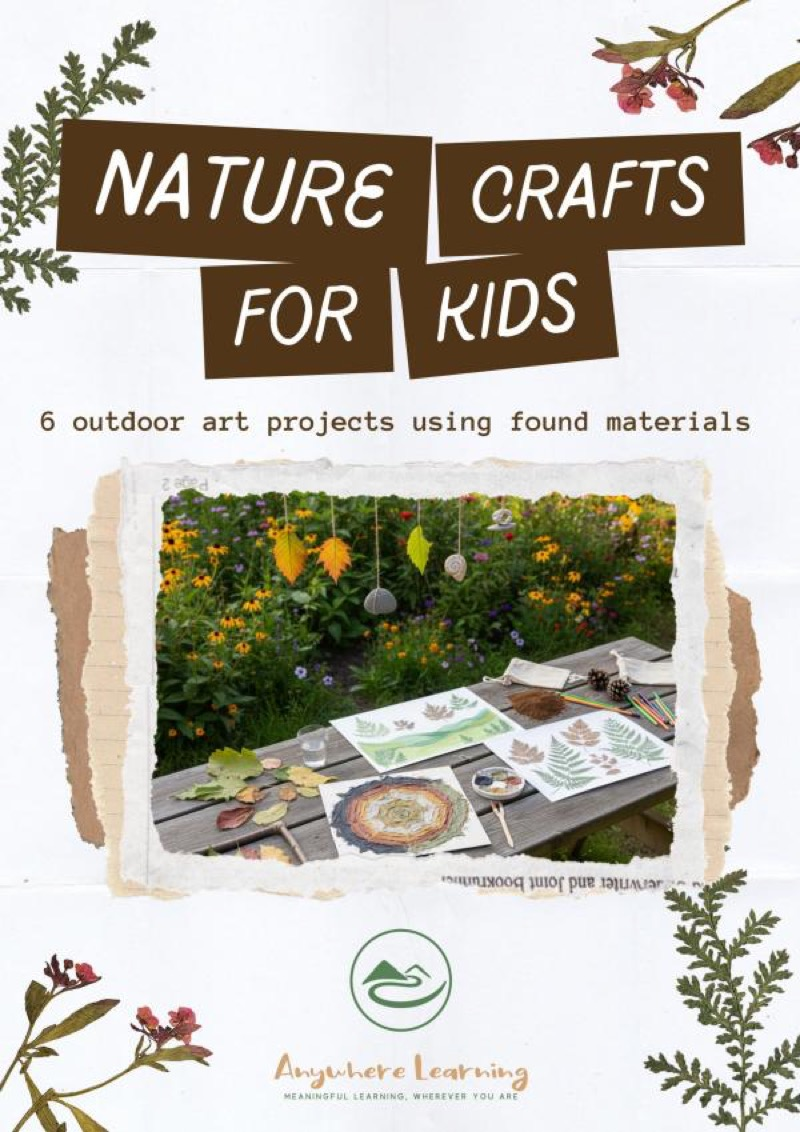
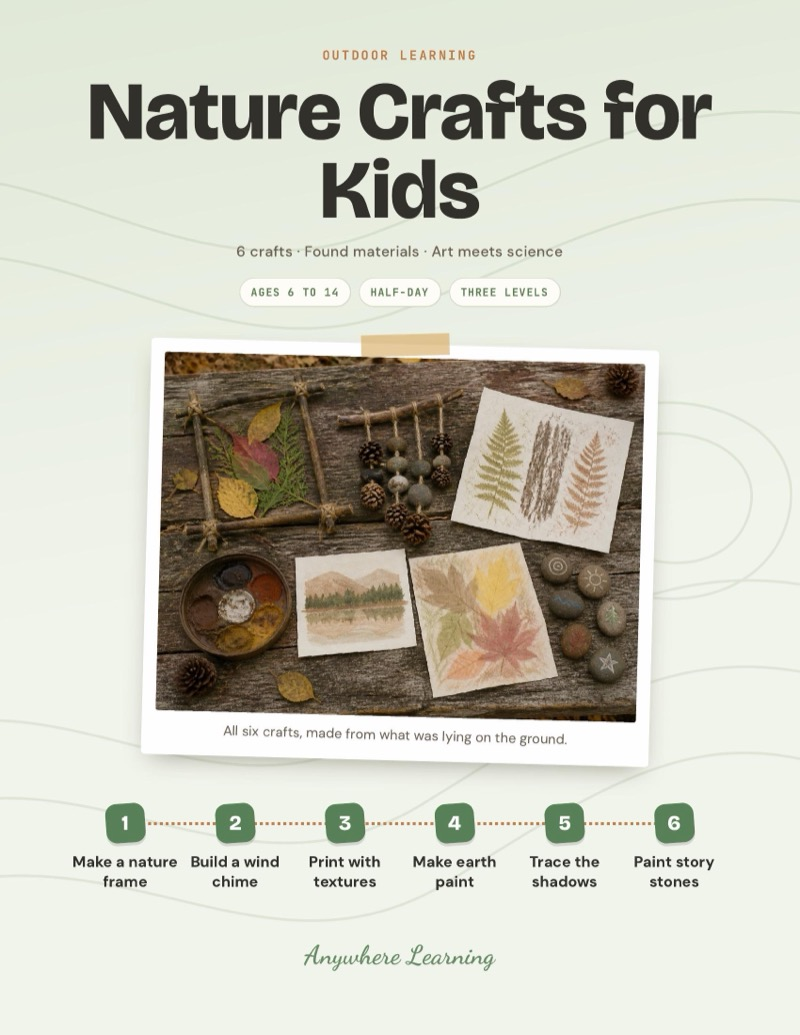
Publish Nature Crafts (6 crafts, watercolour illustrations) + listing copy

diff --git a/lib/fallback-products.ts b/lib/fallback-products.ts
@@ -317,7 +317,7 @@ export const fallbackProducts: FallbackProduct[] = [
     name: "Nature Crafts for Kids",
     slug: "nature-crafts",
     description:
-      "Hands-on nature craft projects using materials found outdoors. Leaf pressing, stick weaving, flower pounding, bark rubbings, and more. Each project connects creativity with nature observation. Kids collect materials, then create something beautiful with what they find.",
+      "Six real crafts made from what's lying on the ground: a nature frame, a wind chime tuned by ear, prints stamped with ferns and bark, paint mixed from soil, drawings traced from shadows, and story stones that become a game. Each craft hides a bit of science or storytelling, and kids learn to test and change their choices like real makers.",
     shortDescription:
       "Nature crafts for kids ages 6-14: hands-on outdoor craft projects using materials found in your backyard or on a trail.",
     priceCents: 799,
@@ -325,7 +325,7 @@ export const fallbackProducts: FallbackProduct[] = [
     stripePriceId: "price_1TLrphAkIBECpwGmHzBJOSW0",
     blobUrl: "",
     imageUrl: "/products/nature-crafts.jpg",
-    previewFile: "Preview Nature crafts for kids.pdf",
+    previewFile: "Preview Outdoor Learning - Nature crafts for kids v3.pdf",
     category: "outdoor-learning",
     isBundle: false,
     bundleProductIds: null,

diff --git a/lib/activity-blob-urls.ts b/lib/activity-blob-urls.ts
@@ -77,7 +77,7 @@ export const ACTIVITY_BLOB_URLS: Record<string, string> = {
   "mini-movie": "https://xkj3tzlgu6ylgllk.public.blob.vercel-storage.com/Creativity%20%26%20Maker%20Create%20a%20Mini%20Movie%2C%20Stop-Motion%20or%20Radio%20Drama%20v2.pdf",
   "my-review-column": "https://xkj3tzlgu6ylgllk.public.blob.vercel-storage.com/Communication%20%26%20Writing%20-%20My%20Review%20Column%20v4.pdf",
   "nature-choice-boards": "https://xkj3tzlgu6ylgllk.public.blob.vercel-storage.com/Outdoor%20Learning%20-%20Nature%20Choice%20Boards%20v5.pdf",
-  "nature-crafts": "https://xkj3tzlgu6ylgllk.public.blob.vercel-storage.com/Outdoor%20Learning%20-%20Nature%20crafts%20for%20kids%20v2.pdf",
+  "nature-crafts": "https://xkj3tzlgu6ylgllk.public.blob.vercel-storage.com/Outdoor%20Learning%20-%20Nature%20crafts%20for%20kids%20v3.pdf",
   "nature-data-tracker": "https://xkj3tzlgu6ylgllk.public.blob.vercel-storage.com/Real-world%20math%20-%20Nature%20Data%20Tracker%20v2.pdf",
   "nature-geography-field-study": "https://xkj3tzlgu6ylgllk.public.blob.vercel-storage.com/Worldschooling%20-%20Nature%20and%20Geography%20Field%20Study%20v2.pdf",
   "nature-journal-walks": "https://xkj3tzlgu6ylgllk.public.blob.vercel-storage.com/Outdoor%20Learning%20-%20My%20nature%20journal%20v3.pdf",

diff --git a/lib/product-descriptions.ts b/lib/product-descriptions.ts
@@ -455,10 +455,10 @@ export const productDescriptions: Record<string, ProductDescription> = {
   },
   'nature-crafts': {
     opening:
-      'Hands-on nature craft projects using materials found outdoors. Leaf pressing, stick weaving, flower pounding, bark rubbings, and more. Each project connects creativity with nature observation. Kids collect materials mindfully and create something meaningful from them.',
+      'Six real crafts made from found materials: a nature frame, a wind chime, texture prints, earth paint, shadow tracing and story stones. Each one hides a bit of science or storytelling, and kids learn to test and change their choices like real makers.',
     whatsIncluded: [
-      'Nature craft project guides using found materials',
-      'Leaf pressing, flower pounding, bark rubbings, stick weaving',
+      '6 step-by-step craft guides using found materials',
+      'Nature frame, wind chime, texture prints, earth paint, shadow tracing, story stones',
       'Each project combines collection, observation, and creation',
       'Minimal additional supplies, mostly found materials',
       'Suitable for all seasons with seasonal variations',
